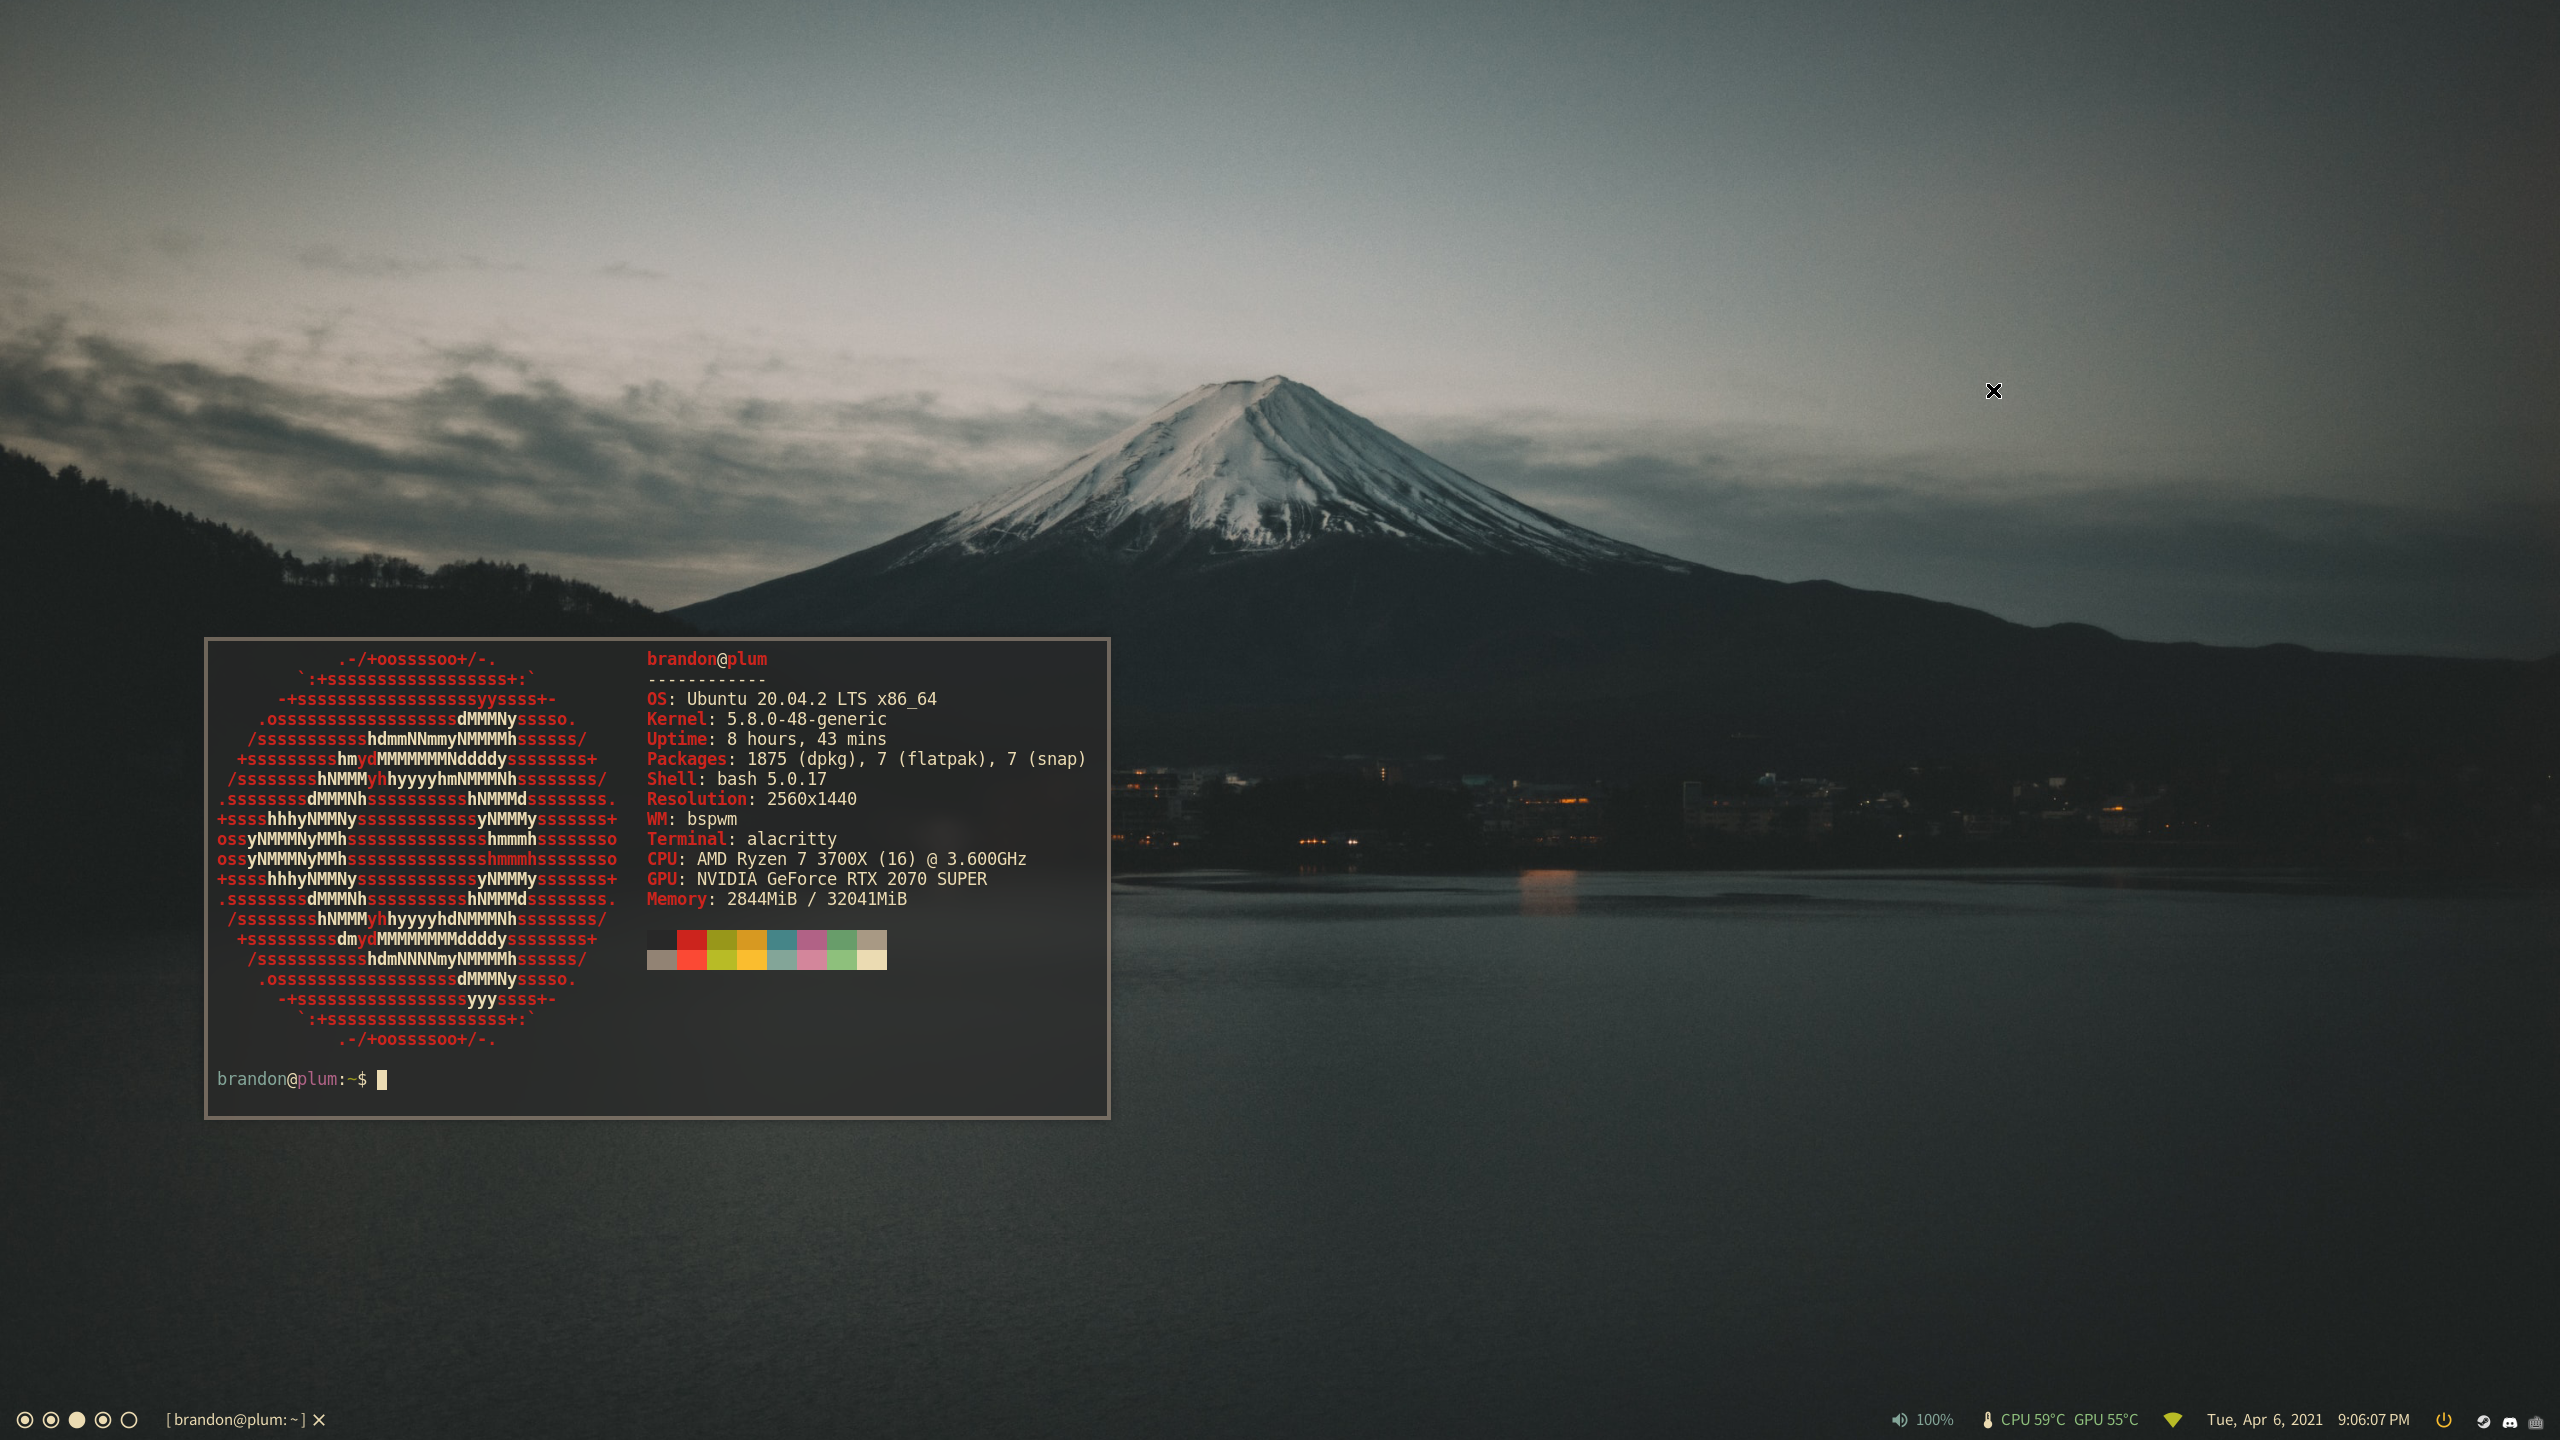
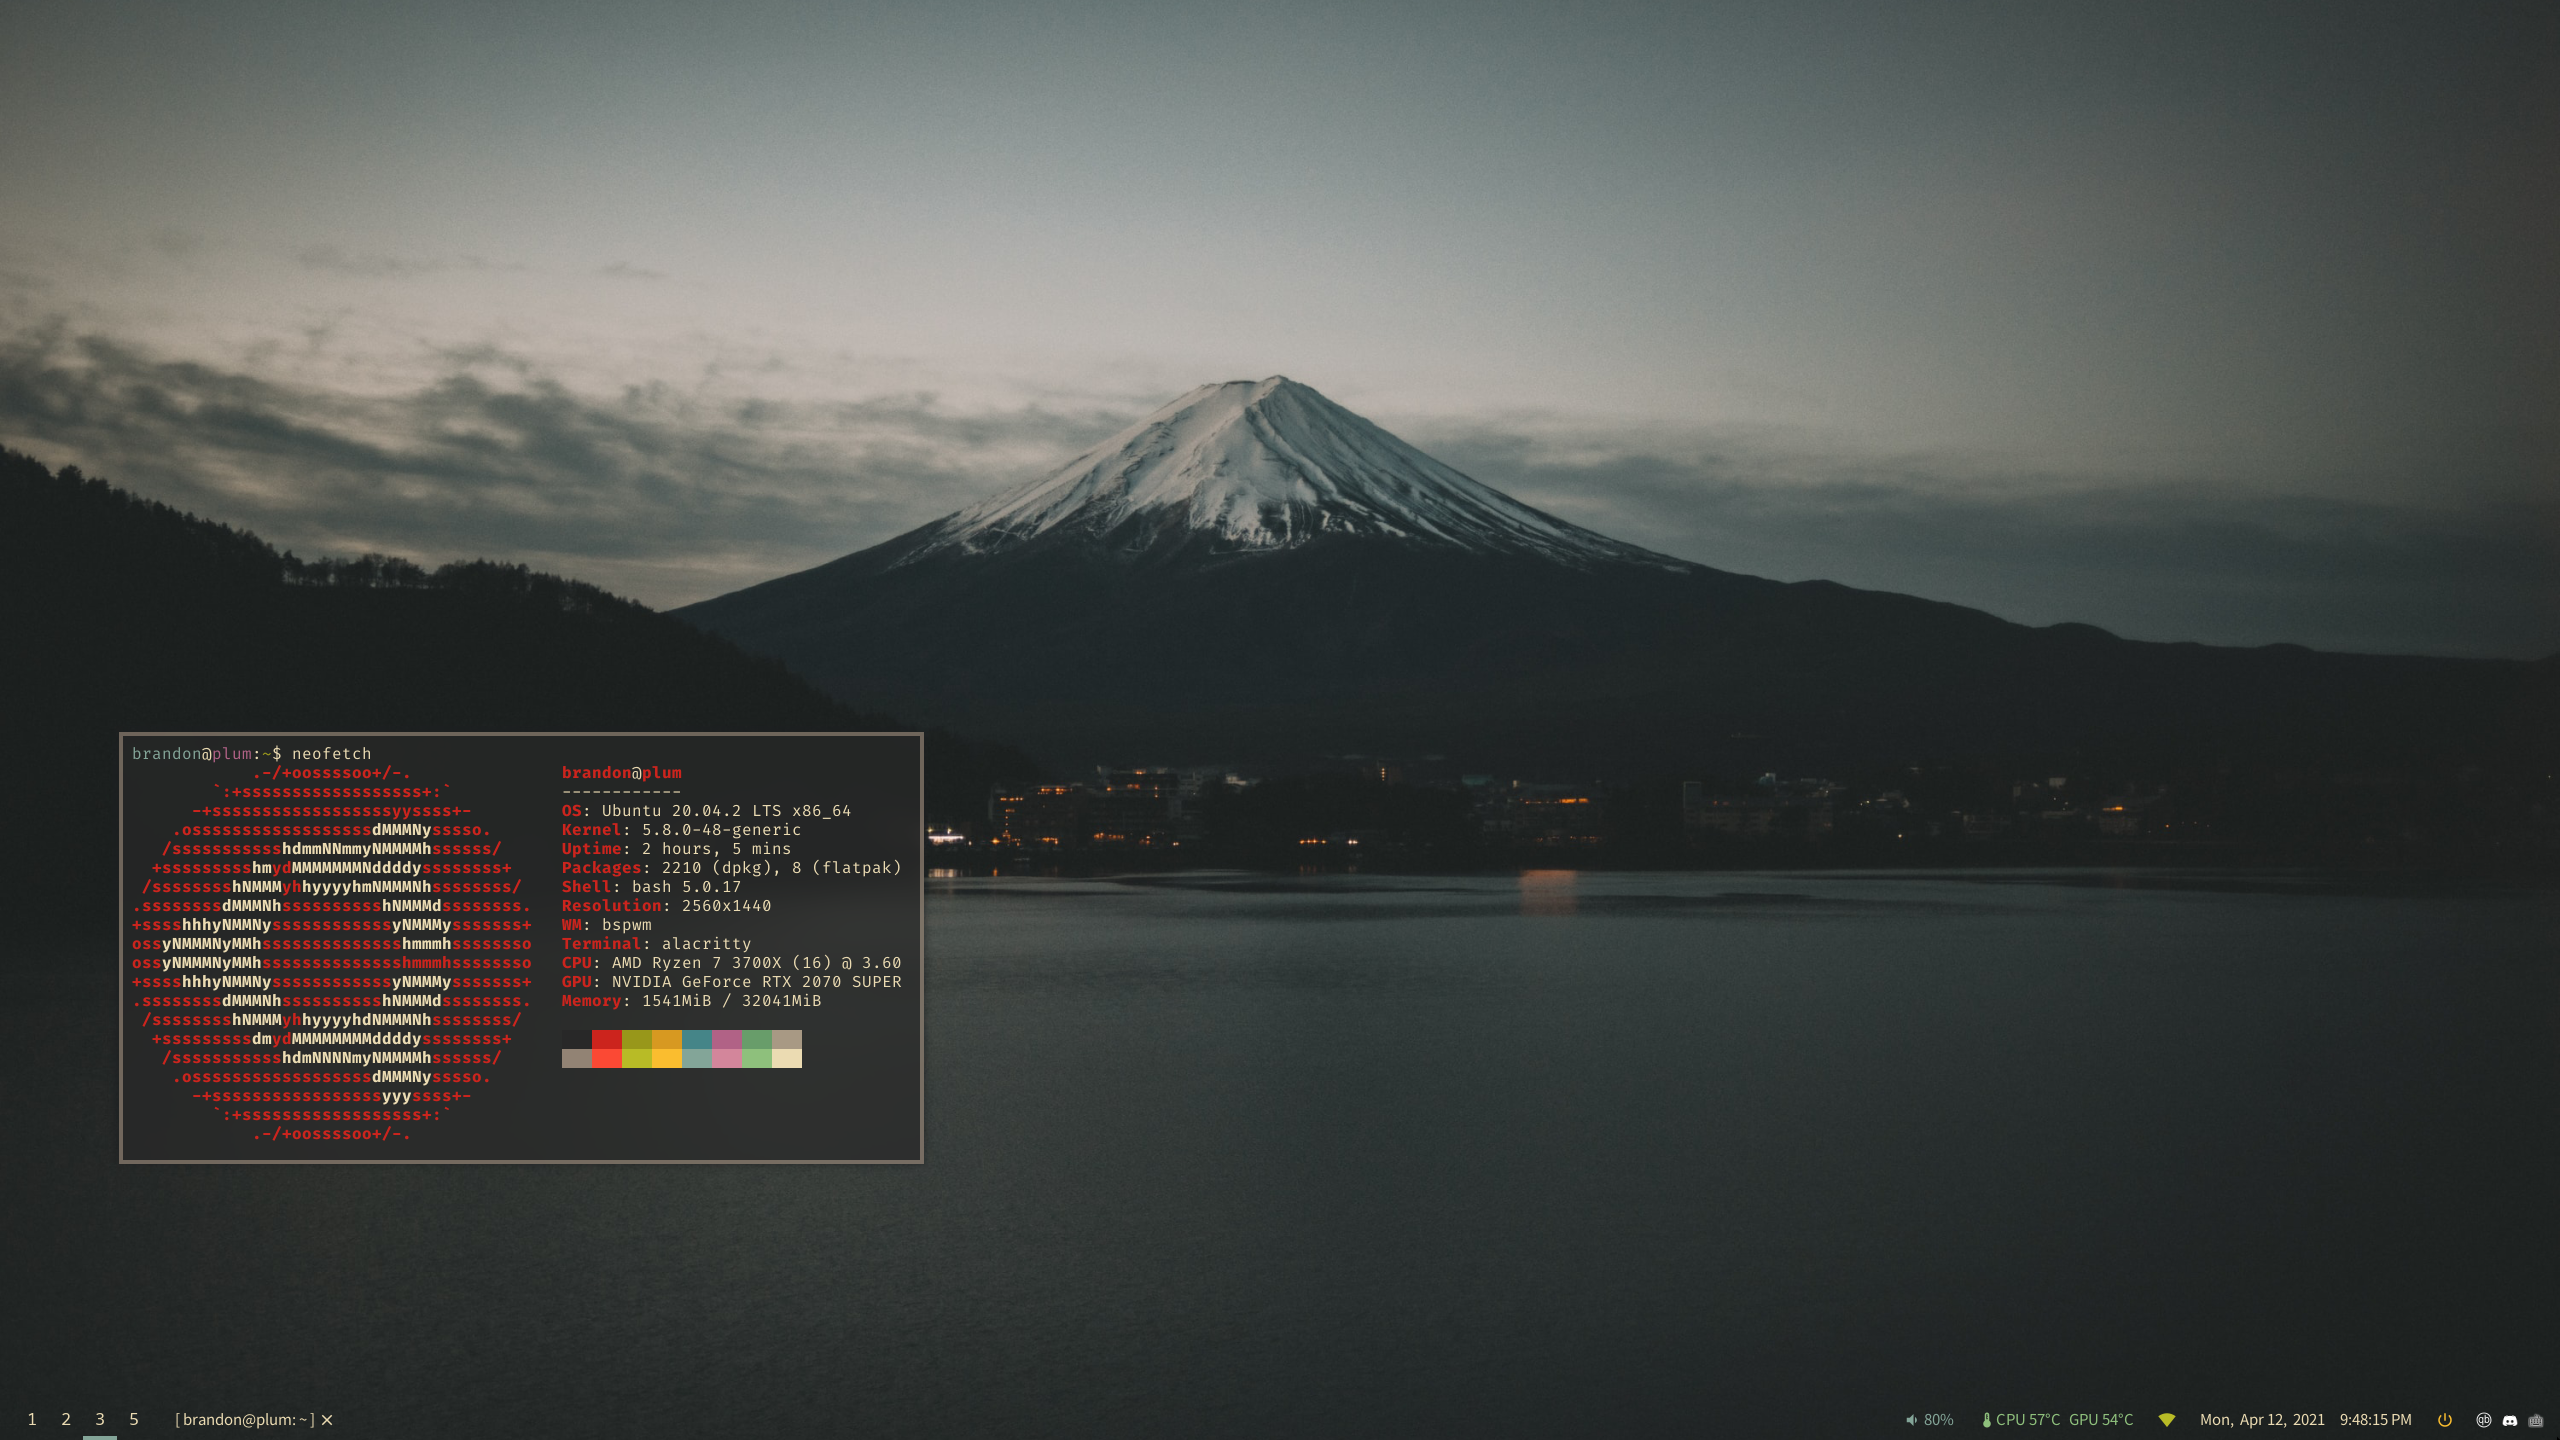
update preview

diff --git a/README.md b/README.md
@@ -17,5 +17,5 @@ Use `stow -v <folder>` to create symlinks to the configuration files in `<folder
 
 
 ## Preview
-As of  2021-04-06
+As of 2021-04-12
 ![preview of desktop with configurations applied](./preview.png)
